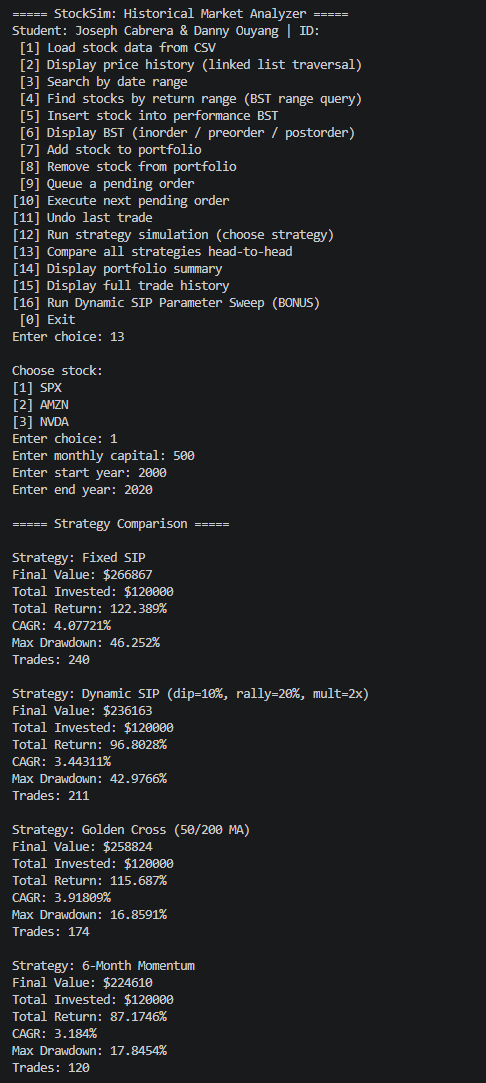
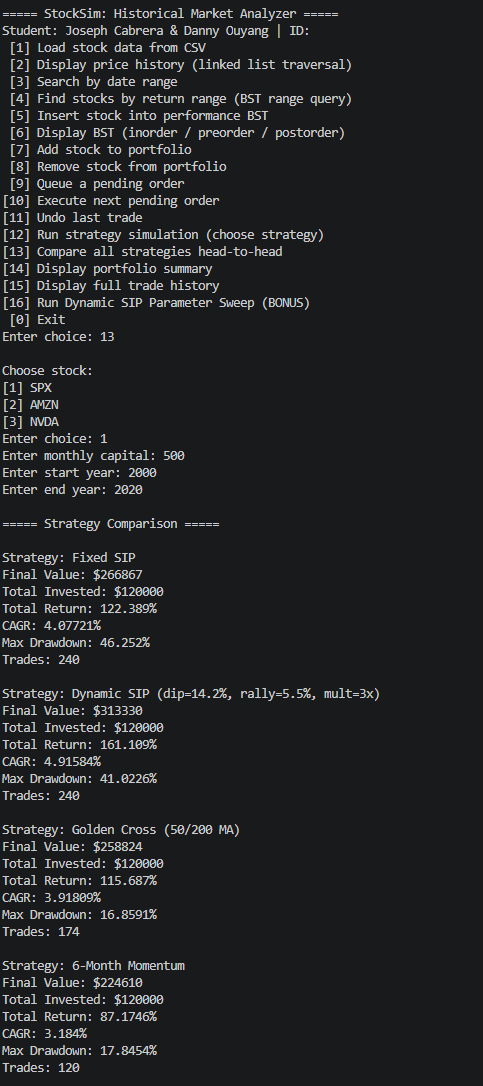
Final Images + Bonus + Cosmetic changes

Changed region(s): [[0.0, 0.0, 0.7453, 1.0], [0.4969, 0.6094, 0.6832, 0.6704], [0.7143, 0.6399, 0.7453, 0.6704]]

diff --git a/main.cpp b/main.cpp
@@ -10,6 +10,7 @@
 
 #include <iostream>
 #include <limits>
+#include <sstream>
 #include <string>
 #include <vector>
 
@@ -131,61 +132,86 @@ void printStrategyComparison(const SimResult& r1,
     void parameterSweep(ETF* spy,
         double monthlyCapital,
         int startYear,
-        int endYear,
-        StockBST& bst) {
+        int endYear) {
 
     cout << "\n===== Dynamic SIP Parameter Sweep =====" << endl;
 
-    for (double dipThreshold = 3.0;
-         dipThreshold <= 20.0;
-         dipThreshold += 1.0) {
+    StockBST sweepBST;
 
-        DynamicSIPStrategy strategy(
-            dipThreshold,
-            10.0,
-            2.0
-        );
+    const int DIP_COUNT = 5;
+    const int RALLY_COUNT = 2;
+    const int MULTIPLIER_COUNT = 2;
 
-        SimResult result =
-            strategy.backtest(
-                spy->getHistory(),
-                monthlyCapital,
-                startYear,
-                endYear
-            );
+    double dipOptions[DIP_COUNT] = {8.0, 12.0, 14.0, 14.2, 15.0};
+    double rallyOptions[RALLY_COUNT] = {5.5, 10.0};
+    double multiplierOptions[MULTIPLIER_COUNT] = {2.0, 3.0};
+    string bestLabel = "";
+    double bestValue = 0.0;
+    bool hasBest = false;
 
-        string label =
-            "dip=" +
-            to_string((int)dipThreshold) +
-            "%";
+    for (int dipIndex = 0; dipIndex < DIP_COUNT; dipIndex++) {
+        for (int rallyIndex = 0; rallyIndex < RALLY_COUNT; rallyIndex++) {
+            for (int multiplierIndex = 0;
+                 multiplierIndex < MULTIPLIER_COUNT;
+                 multiplierIndex++) {
 
-        bst.insert(
-            label,
-            result.finalValue,
-            0
-        );
+                double dipThreshold = dipOptions[dipIndex];
+                double rallyThreshold = rallyOptions[rallyIndex];
+                double multiplier = multiplierOptions[multiplierIndex];
 
-        cout << label
-             << " -> Final Value: $"
-             << result.finalValue
-             << endl;
+                DynamicSIPStrategy strategy(
+                    dipThreshold,
+                    rallyThreshold,
+                    multiplier
+                );
+
+                SimResult result =
+                    strategy.backtest(
+                        spy->getHistory(),
+                        monthlyCapital,
+                        startYear,
+                        endYear
+                    );
+
+                ostringstream labelStream;
+                labelStream << "dip=" << dipThreshold
+                            << "%,rally=" << rallyThreshold
+                            << "%,mult=" << multiplier << "x";
+
+                string label = labelStream.str();
+
+                sweepBST.insert(
+                    label,
+                    result.finalValue,
+                    0
+                );
+
+                if (!hasBest || result.finalValue > bestValue) {
+                    bestLabel = label;
+                    bestValue = result.finalValue;
+                    hasBest = true;
+                }
+
+                cout << label
+                     << " -> Final Value: $"
+                     << result.finalValue
+                     << endl;
+            }
+        }
     }
-
     cout << "\n===== Ranked Results =====" << endl;
 
-    bst.inorder();
+    sweepBST.inorder();
 
-    StockBST::BSTNode* best = bst.findMax();
-
-    if (best != nullptr) {
+    if (hasBest) {
         cout << "\n===== BEST THRESHOLD =====" << endl;
 
         cout << "Strategy: "
-             << best->ticker
+             << bestLabel
              << endl;
 
         cout << "Final Value: $"
-             << best->key
+             << bestValue
              << endl;
     }
 }
@@ -710,7 +736,7 @@ int main() {
             }
 
             FixedSIPStrategy fixed;
-            DynamicSIPStrategy dynamic(10.0, 20.0, 2.0);
+            DynamicSIPStrategy dynamic(14.2, 5.5, 3.0);
             GoldenCrossStrategy golden(50, 200);
             MomentumStrategy momentum(5.0, 126);
 
@@ -788,14 +814,11 @@ int main() {
                 continue;
             }
 
-            StockBST sweepBST;
-
             parameterSweep(
                 spy,
                 monthlyCapital,
                 startYear,
-                endYear,
-                sweepBST
+                endYear
             );
         }
 

diff --git a/PROMPTS.md b/PROMPTS.md
@@ -142,6 +142,8 @@
 
 **Prompt:** We are having an issue with case 13 where our output shows a crazy high CAGR when we have a very high final portfolio value. Please help me identify the root cause and solution.
 
+**Prompt:** Please implement our bonus_strategy.txt in our main.cpp parameterSweep().
+
 ### Section: CSVParser.cpp
 
 **Prompt:** We accidentally used std vector here while not being allowed. How do we implement without std vector?
